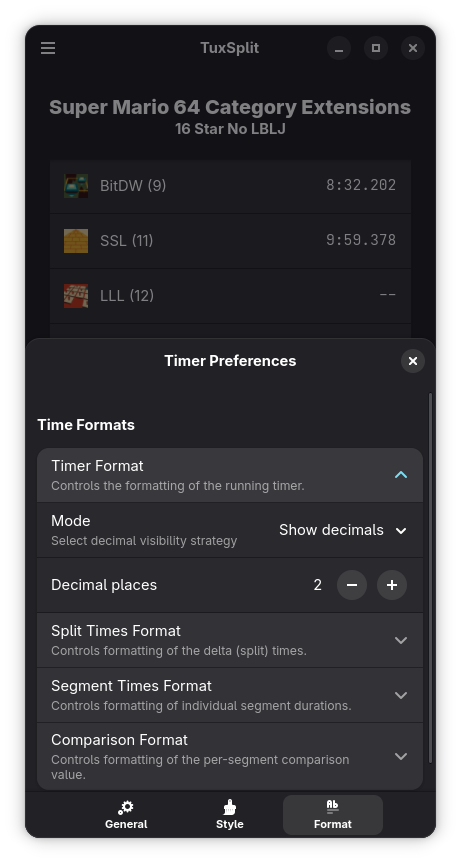
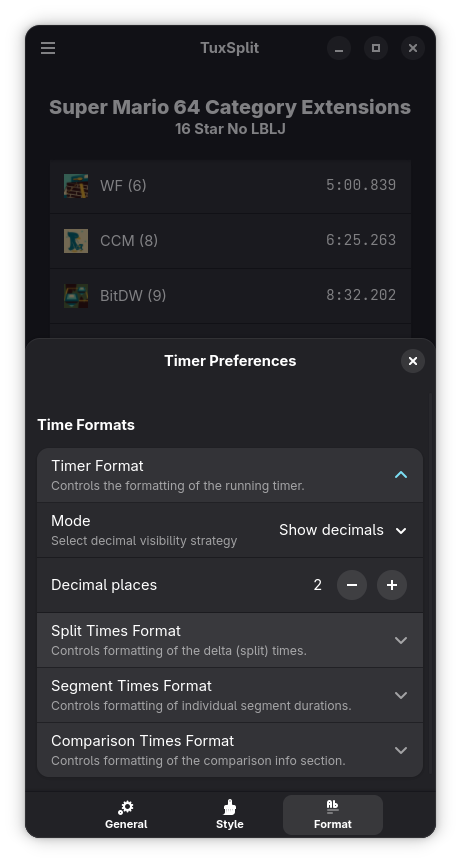
fix: Set comparison time format text inline with others

diff --git a/src/ui/menu/mod.rs b/src/ui/menu/mod.rs
@@ -165,8 +165,8 @@ impl TimerPreferencesDialog {
         formats_group.add(&segment_expander);
 
         let comparison_expander = self.build_format_expander(
-            "Comparison Format",
-            "Controls formatting of the per-segment comparison value.",
+            "Comparison Times Format",
+            "Controls formatting of the comparison info section.",
             FormatTarget::Comparison,
         );
         formats_group.add(&comparison_expander);
